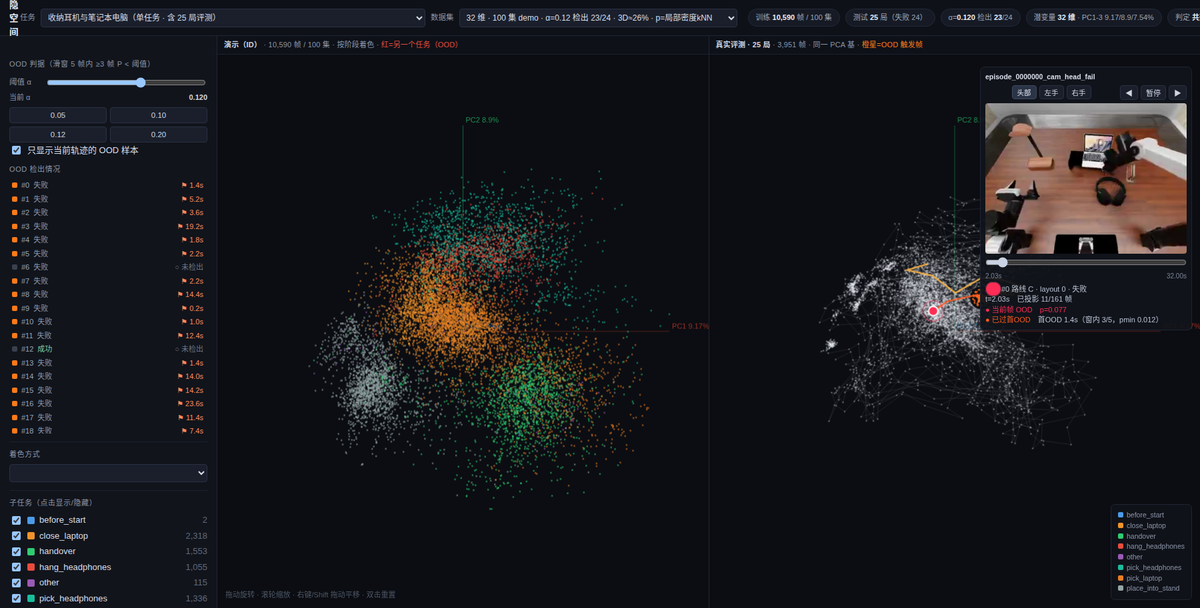
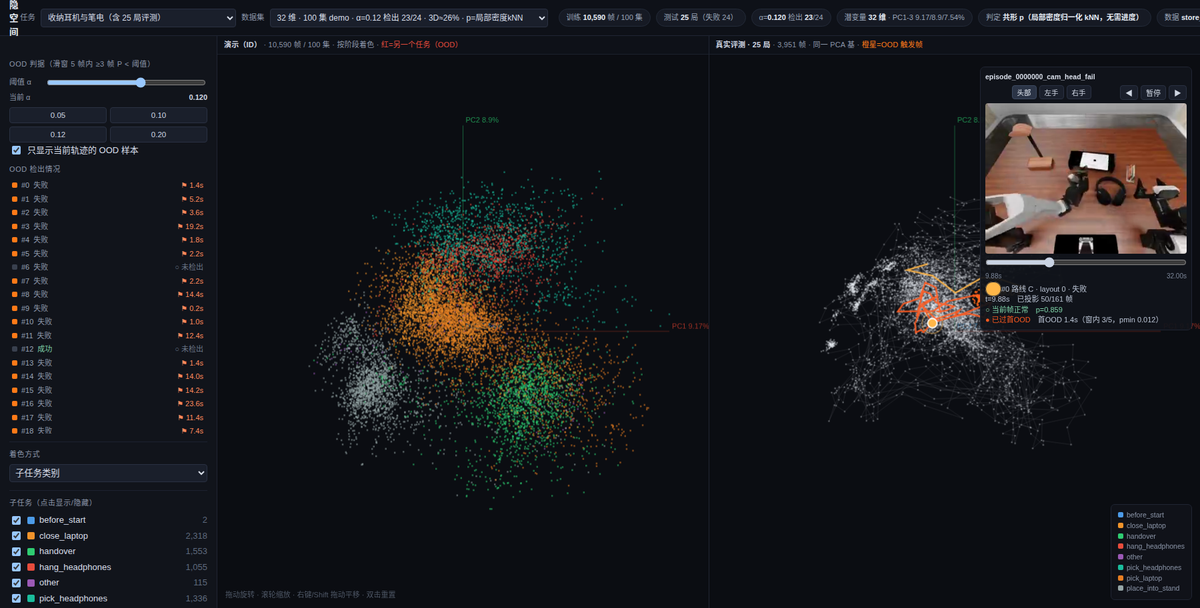
任务下拉文案缩短（长提示词截断，单任务用中文短标签）

diff --git a/docs/assets/latents/manifest.js b/docs/assets/latents/manifest.js
@@ -1,1 +1,1 @@
-window.ROUTEC_MANIFEST = {"default": {"task": "store_laptop_and_headphones", "dataset": "lof-d32"}, "tasks": [{"key": "arrange_the_numbers_from_left_to_right_to_form_t", "label": "Arrange the numbers from left to right to form the largest possible number, and place them on the pad.", "videoDir": "videos/flora/arrange_the_numbers_from_left_to_right_to_form_t", "evVideoDir": "", "datasets": [{"key": "lof-d32", "group": "按任务（该任务独立 VAE · 32 维）", "file": "latents/arrange_the_numbers_from_left_to_right_to_form_t/lof-d32.js", "latent": 32, "n_tr": 11708, "n_ev": 0, "n_ep": 100, "pc_var": [11.84, 9.25, 8.83], "note": "100 集 · 11,708 帧 · 视频 3 集"}]}, {"key": "build_a_tower_using_the_wooden_blocks_and_wooden", "label": "Build a tower using the wooden blocks and wooden boards.", "videoDir": "videos/flora/build_a_tower_using_the_wooden_blocks_and_wooden", "evVideoDir": "", "datasets": [{"key": "lof-d32", "group": "按任务（该任务独立 VAE · 32 维）", "file": "latents/build_a_tower_using_the_wooden_blocks_and_wooden/lof-d32.js", "latent": 32, "n_tr": 14577, "n_ev": 0, "n_ep": 100, "pc_var": [14.98, 11.15, 9.62], "note": "100 集 · 14,577 帧 · 视频 3 集"}]}, {"key": "store_laptop_and_headphones", "label": "收纳耳机与笔记本电脑（单任务 · 含 25 局评测）", "videoDir": "videos/head", "evVideoDir": "videos/eval25", "datasets": [{"key": "lof-d32", "group": "共形 p · 局部密度归一化（LOF，无进度）★", "file": "latents/store_laptop_and_headphones/lof-d32.js", "latent": 32, "n_tr": 10590, "n_ev": 3951, "n_ep": 100, "pc_var": [9.17, 8.9, 7.54], "note": "100 集 demo · α=0.12 检出 23/24 · 3D≈26% · p=局部密度kNN"}, {"key": "lof-d16", "group": "共形 p · 局部密度归一化（LOF，无进度）★", "file": "latents/store_laptop_and_headphones/lof-d16.js", "latent": 16, "n_tr": 10590, "n_ev": 3951, "n_ep": 100, "pc_var": [11.68, 10.82, 9.14], "note": "100 集 demo · α=0.12 检出 23/24 · 3D≈32% · p=局部密度kNN"}, {"key": "lof-d8", "group": "共形 p · 局部密度归一化（LOF，无进度）★", "file": "latents/store_laptop_and_headphones/lof-d8.js", "latent": 8, "n_tr": 10590, "n_ev": 3951, "n_ep": 100, "pc_var": [18.55, 15.17, 13.8], "note": "100 集 demo · α=0.12 检出 23/24 · 3D≈48% · p=局部密度kNN"}, {"key": "lof-d4", "group": "共形 p · 局部密度归一化（LOF，无进度）★", "file": "latents/store_laptop_and_headphones/lof-d4.js", "latent": 4, "n_tr": 10590, "n_ev": 3951, "n_ep": 100, "pc_var": [31.64, 28.46, 22.03], "note": "100 集 demo · α=0.12 检出 24/24 · 3D≈82% · p=局部密度kNN"}, {"key": "prog-d32", "group": "共形 p · 进度条件 kNN（需要进度 u）", "file": "latents/store_laptop_and_headphones/prog-d32.js", "latent": 32, "n_tr": 10590, "n_ev": 3951, "n_ep": 100, "pc_var": [9.17, 8.9, 7.54], "note": "100 集 demo · α=0.12 检出 24/24 · 3D≈26% · p=进度条件kNN"}, {"key": "prog-d16", "group": "共形 p · 进度条件 kNN（需要进度 u）", "file": "latents/store_laptop_and_headphones/prog-d16.js", "latent": 16, "n_tr": 10590, "n_ev": 3951, "n_ep": 100, "pc_var": [11.68, 10.82, 9.14], "note": "100 集 demo · α=0.12 检出 24/24 · 3D≈32% · p=进度条件kNN"}, {"key": "prog-d8", "group": "共形 p · 进度条件 kNN（需要进度 u）", "file": "latents/store_laptop_and_headphones/prog-d8.js", "latent": 8, "n_tr": 10590, "n_ev": 3951, "n_ep": 100, "pc_var": [18.55, 15.17, 13.8], "note": "100 集 demo · α=0.12 检出 24/24 · 3D≈48% · p=进度条件kNN"}, {"key": "prog-d4", "group": "共形 p · 进度条件 kNN（需要进度 u）", "file": "latents/store_laptop_and_headphones/prog-d4.js", "latent": 4, "n_tr": 10590, "n_ev": 3951, "n_ep": 100, "pc_var": [31.64, 28.46, 22.03], "note": "100 集 demo · α=0.12 检出 24/24 · 3D≈82% · p=进度条件kNN"}, {"key": "glob-d32", "group": "共形 p · 全局 kNN（无 u 的朴素对照）", "file": "latents/store_laptop_and_headphones/glob-d32.js", "latent": 32, "n_tr": 10590, "n_ev": 3951, "n_ep": 100, "pc_var": [9.17, 8.9, 7.54], "note": "100 集 demo · α=0.12 检出 8/24 · 3D≈26% · p=全局kNN"}]}], "note": "一个任务一个目录；任务内按评估方法分组，组内只变潜空间维数。跨任务/跨组坐标不可比。"};
+window.ROUTEC_MANIFEST = {"default": {"task": "store_laptop_and_headphones", "dataset": "lof-d32"}, "tasks": [{"key": "arrange_the_numbers_from_left_to_right_to_form_t", "label": "Arrange the numbers from left to right to fo…", "videoDir": "videos/flora/arrange_the_numbers_from_left_to_right_to_form_t", "evVideoDir": "", "datasets": [{"key": "lof-d32", "group": "按任务（该任务独立 VAE · 32 维）", "file": "latents/arrange_the_numbers_from_left_to_right_to_form_t/lof-d32.js", "latent": 32, "n_tr": 11708, "n_ev": 0, "n_ep": 100, "pc_var": [11.84, 9.25, 8.83], "note": "100 集 · 11,708 帧 · 视频 3 集"}]}, {"key": "build_a_tower_using_the_wooden_blocks_and_wooden", "label": "Build a tower using the wooden blocks and wo…", "videoDir": "videos/flora/build_a_tower_using_the_wooden_blocks_and_wooden", "evVideoDir": "", "datasets": [{"key": "lof-d32", "group": "按任务（该任务独立 VAE · 32 维）", "file": "latents/build_a_tower_using_the_wooden_blocks_and_wooden/lof-d32.js", "latent": 32, "n_tr": 14577, "n_ev": 0, "n_ep": 100, "pc_var": [14.98, 11.15, 9.62], "note": "100 集 · 14,577 帧 · 视频 3 集"}]}, {"key": "store_laptop_and_headphones", "label": "收纳耳机与笔电（含 25 局评测）", "videoDir": "videos/head", "evVideoDir": "videos/eval25", "datasets": [{"key": "lof-d32", "group": "共形 p · 局部密度归一化（LOF，无进度）★", "file": "latents/store_laptop_and_headphones/lof-d32.js", "latent": 32, "n_tr": 10590, "n_ev": 3951, "n_ep": 100, "pc_var": [9.17, 8.9, 7.54], "note": "100 集 demo · α=0.12 检出 23/24 · 3D≈26% · p=局部密度kNN"}, {"key": "lof-d16", "group": "共形 p · 局部密度归一化（LOF，无进度）★", "file": "latents/store_laptop_and_headphones/lof-d16.js", "latent": 16, "n_tr": 10590, "n_ev": 3951, "n_ep": 100, "pc_var": [11.68, 10.82, 9.14], "note": "100 集 demo · α=0.12 检出 23/24 · 3D≈32% · p=局部密度kNN"}, {"key": "lof-d8", "group": "共形 p · 局部密度归一化（LOF，无进度）★", "file": "latents/store_laptop_and_headphones/lof-d8.js", "latent": 8, "n_tr": 10590, "n_ev": 3951, "n_ep": 100, "pc_var": [18.55, 15.17, 13.8], "note": "100 集 demo · α=0.12 检出 23/24 · 3D≈48% · p=局部密度kNN"}, {"key": "lof-d4", "group": "共形 p · 局部密度归一化（LOF，无进度）★", "file": "latents/store_laptop_and_headphones/lof-d4.js", "latent": 4, "n_tr": 10590, "n_ev": 3951, "n_ep": 100, "pc_var": [31.64, 28.46, 22.03], "note": "100 集 demo · α=0.12 检出 24/24 · 3D≈82% · p=局部密度kNN"}, {"key": "prog-d32", "group": "共形 p · 进度条件 kNN（需要进度 u）", "file": "latents/store_laptop_and_headphones/prog-d32.js", "latent": 32, "n_tr": 10590, "n_ev": 3951, "n_ep": 100, "pc_var": [9.17, 8.9, 7.54], "note": "100 集 demo · α=0.12 检出 24/24 · 3D≈26% · p=进度条件kNN"}, {"key": "prog-d16", "group": "共形 p · 进度条件 kNN（需要进度 u）", "file": "latents/store_laptop_and_headphones/prog-d16.js", "latent": 16, "n_tr": 10590, "n_ev": 3951, "n_ep": 100, "pc_var": [11.68, 10.82, 9.14], "note": "100 集 demo · α=0.12 检出 24/24 · 3D≈32% · p=进度条件kNN"}, {"key": "prog-d8", "group": "共形 p · 进度条件 kNN（需要进度 u）", "file": "latents/store_laptop_and_headphones/prog-d8.js", "latent": 8, "n_tr": 10590, "n_ev": 3951, "n_ep": 100, "pc_var": [18.55, 15.17, 13.8], "note": "100 集 demo · α=0.12 检出 24/24 · 3D≈48% · p=进度条件kNN"}, {"key": "prog-d4", "group": "共形 p · 进度条件 kNN（需要进度 u）", "file": "latents/store_laptop_and_headphones/prog-d4.js", "latent": 4, "n_tr": 10590, "n_ev": 3951, "n_ep": 100, "pc_var": [31.64, 28.46, 22.03], "note": "100 集 demo · α=0.12 检出 24/24 · 3D≈82% · p=进度条件kNN"}, {"key": "glob-d32", "group": "共形 p · 全局 kNN（无 u 的朴素对照）", "file": "latents/store_laptop_and_headphones/glob-d32.js", "latent": 32, "n_tr": 10590, "n_ev": 3951, "n_ep": 100, "pc_var": [9.17, 8.9, 7.54], "note": "100 集 demo · α=0.12 检出 8/24 · 3D≈26% · p=全局kNN"}]}], "note": "一个任务一个目录；任务内按评估方法分组，组内只变潜空间维数。跨任务/跨组坐标不可比。"};
